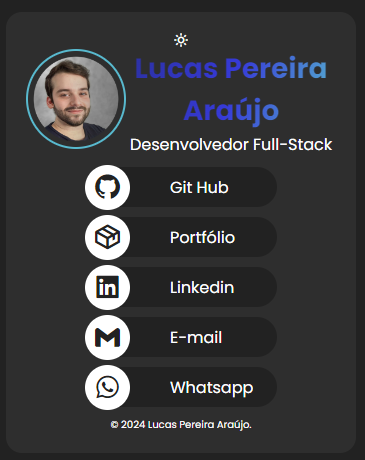
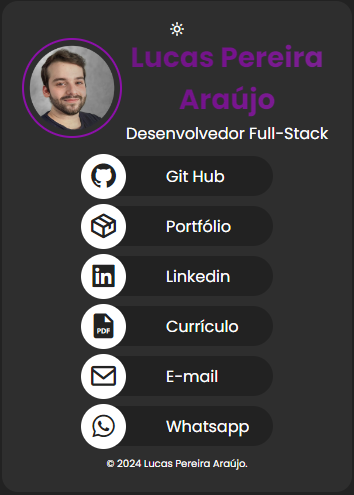
alterações nos links

diff --git a/style.css b/style.css
@@ -149,6 +149,6 @@ footer {
   p {
     text-align: center;
     font-size: 10px;
-    color: rgb(220, 53, 253);
+    color: var(--color);
   }
 }

diff --git a/README.md b/README.md
@@ -2,7 +2,7 @@
 
 Um cópia do famoso LinkTree feito por mim. A ideia aqui foi juntar todas minhas informações em um único lugar para que, com um único link você possa ter acesso a todos meus arquivos. 
 
-[Link Tree](https://github.com/lpa13/linktree-lucas)
+[Link Tree](https://lpa13.github.io/linktree-lucas/)
 
 ## Imagens
 
